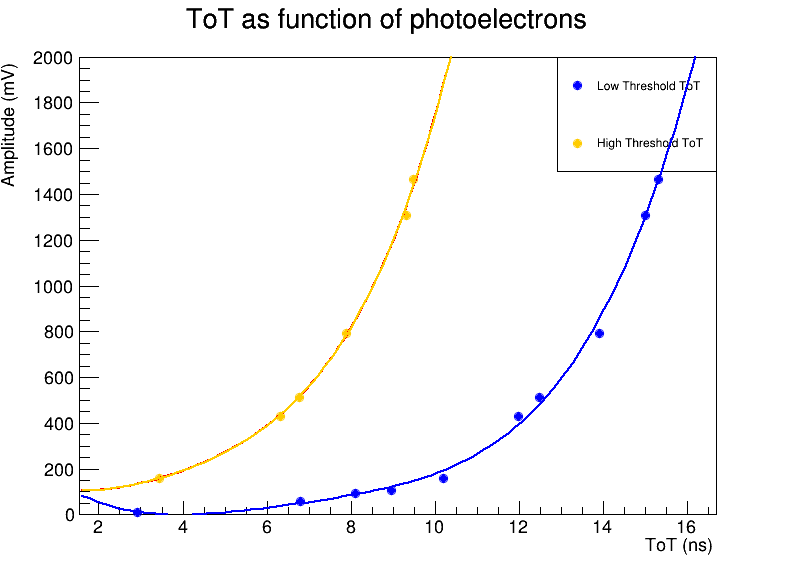
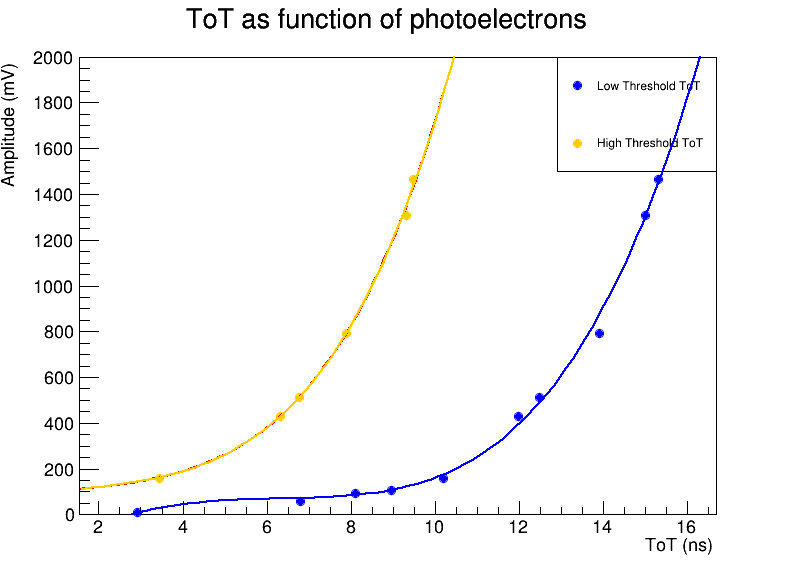
new commit

diff --git a/time_distribution_graph.C b/time_distribution_graph.C
@@ -296,8 +296,8 @@ int main() {
     legend->Draw();
 
     // Esegui il fitting dei dati
-    TF1 *fit_low = new TF1("fit_low", "[0]+[1]*x+[2]*x**2+[3]*x**3+[4]*x**4", 0, 20); // Fitting con un polinomio di secondo grado
-    TF1 *fit_high = new TF1("fit_high", "[0]+[1]*x+[2]*x**2+[3]*x**3+[4]*x**4", 0, 20);
+    TF1 *fit_low = new TF1("fit_low", "[0]+[1]*x+[2]*x**2+[3]*x**4", 0, 20); // Fitting con un polinomio di secondo grado
+    TF1 *fit_high = new TF1("fit_high", "[0]+[1]*x+[2]*x**2+[3]*x**4", 0, 20);
 
     gr_low->Fit(fit_low);
     gr_high->Fit(fit_high);
